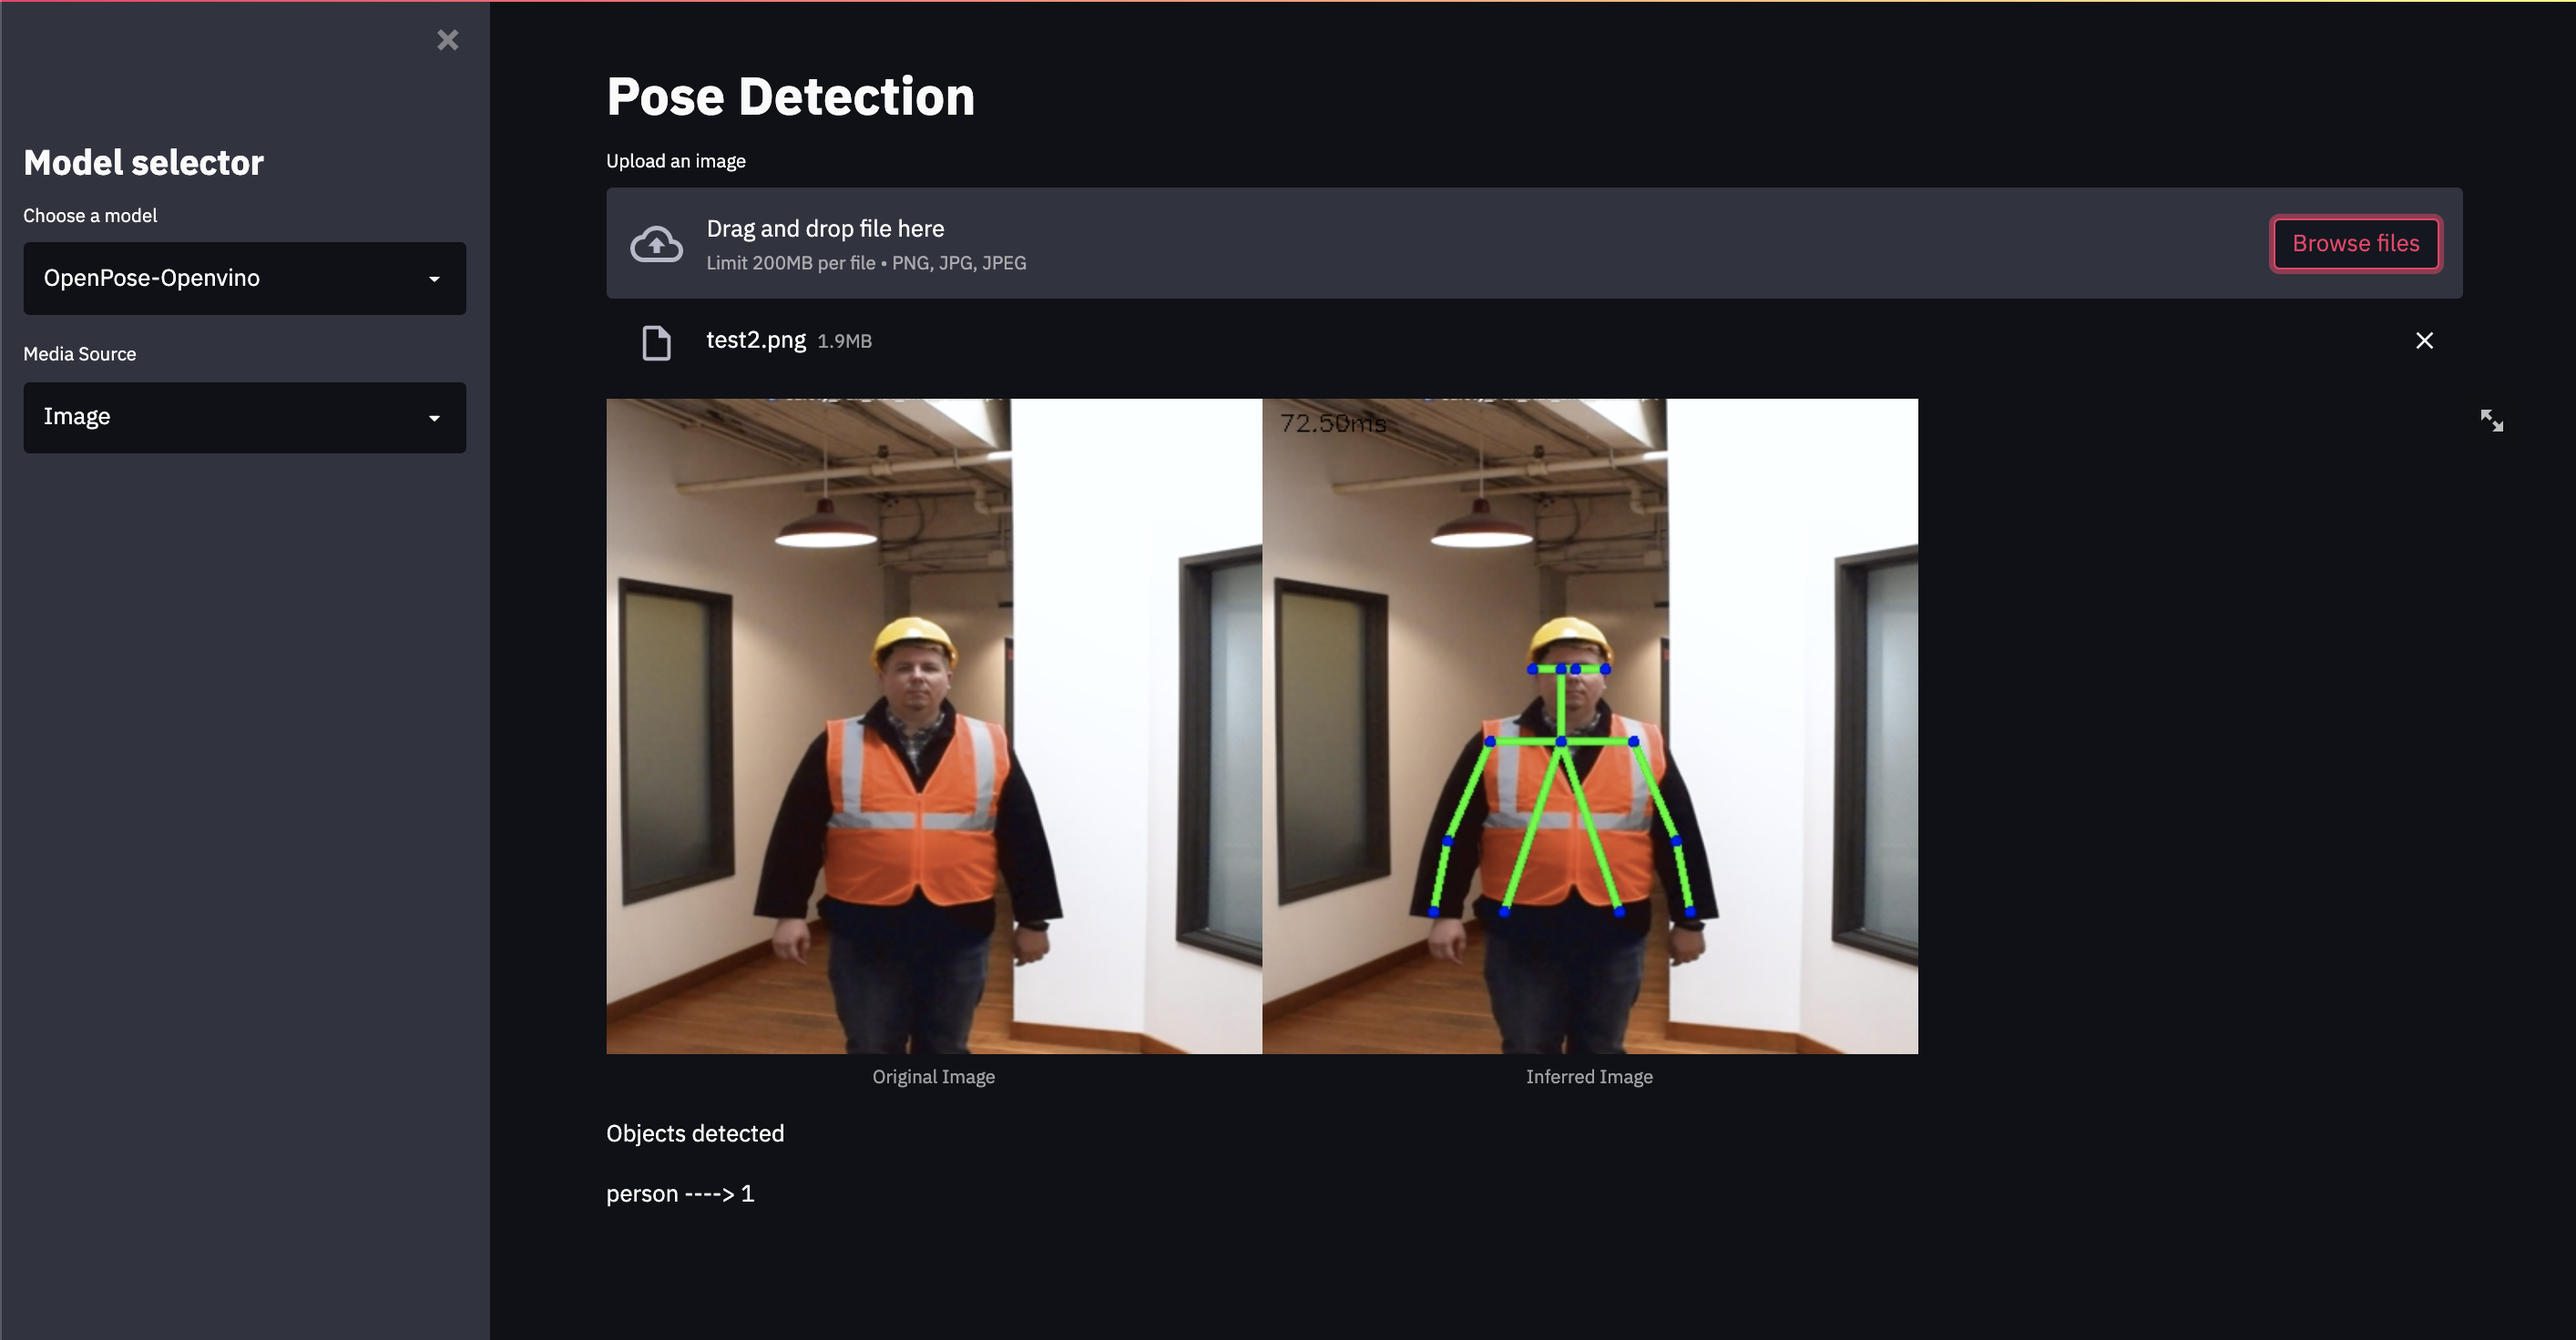
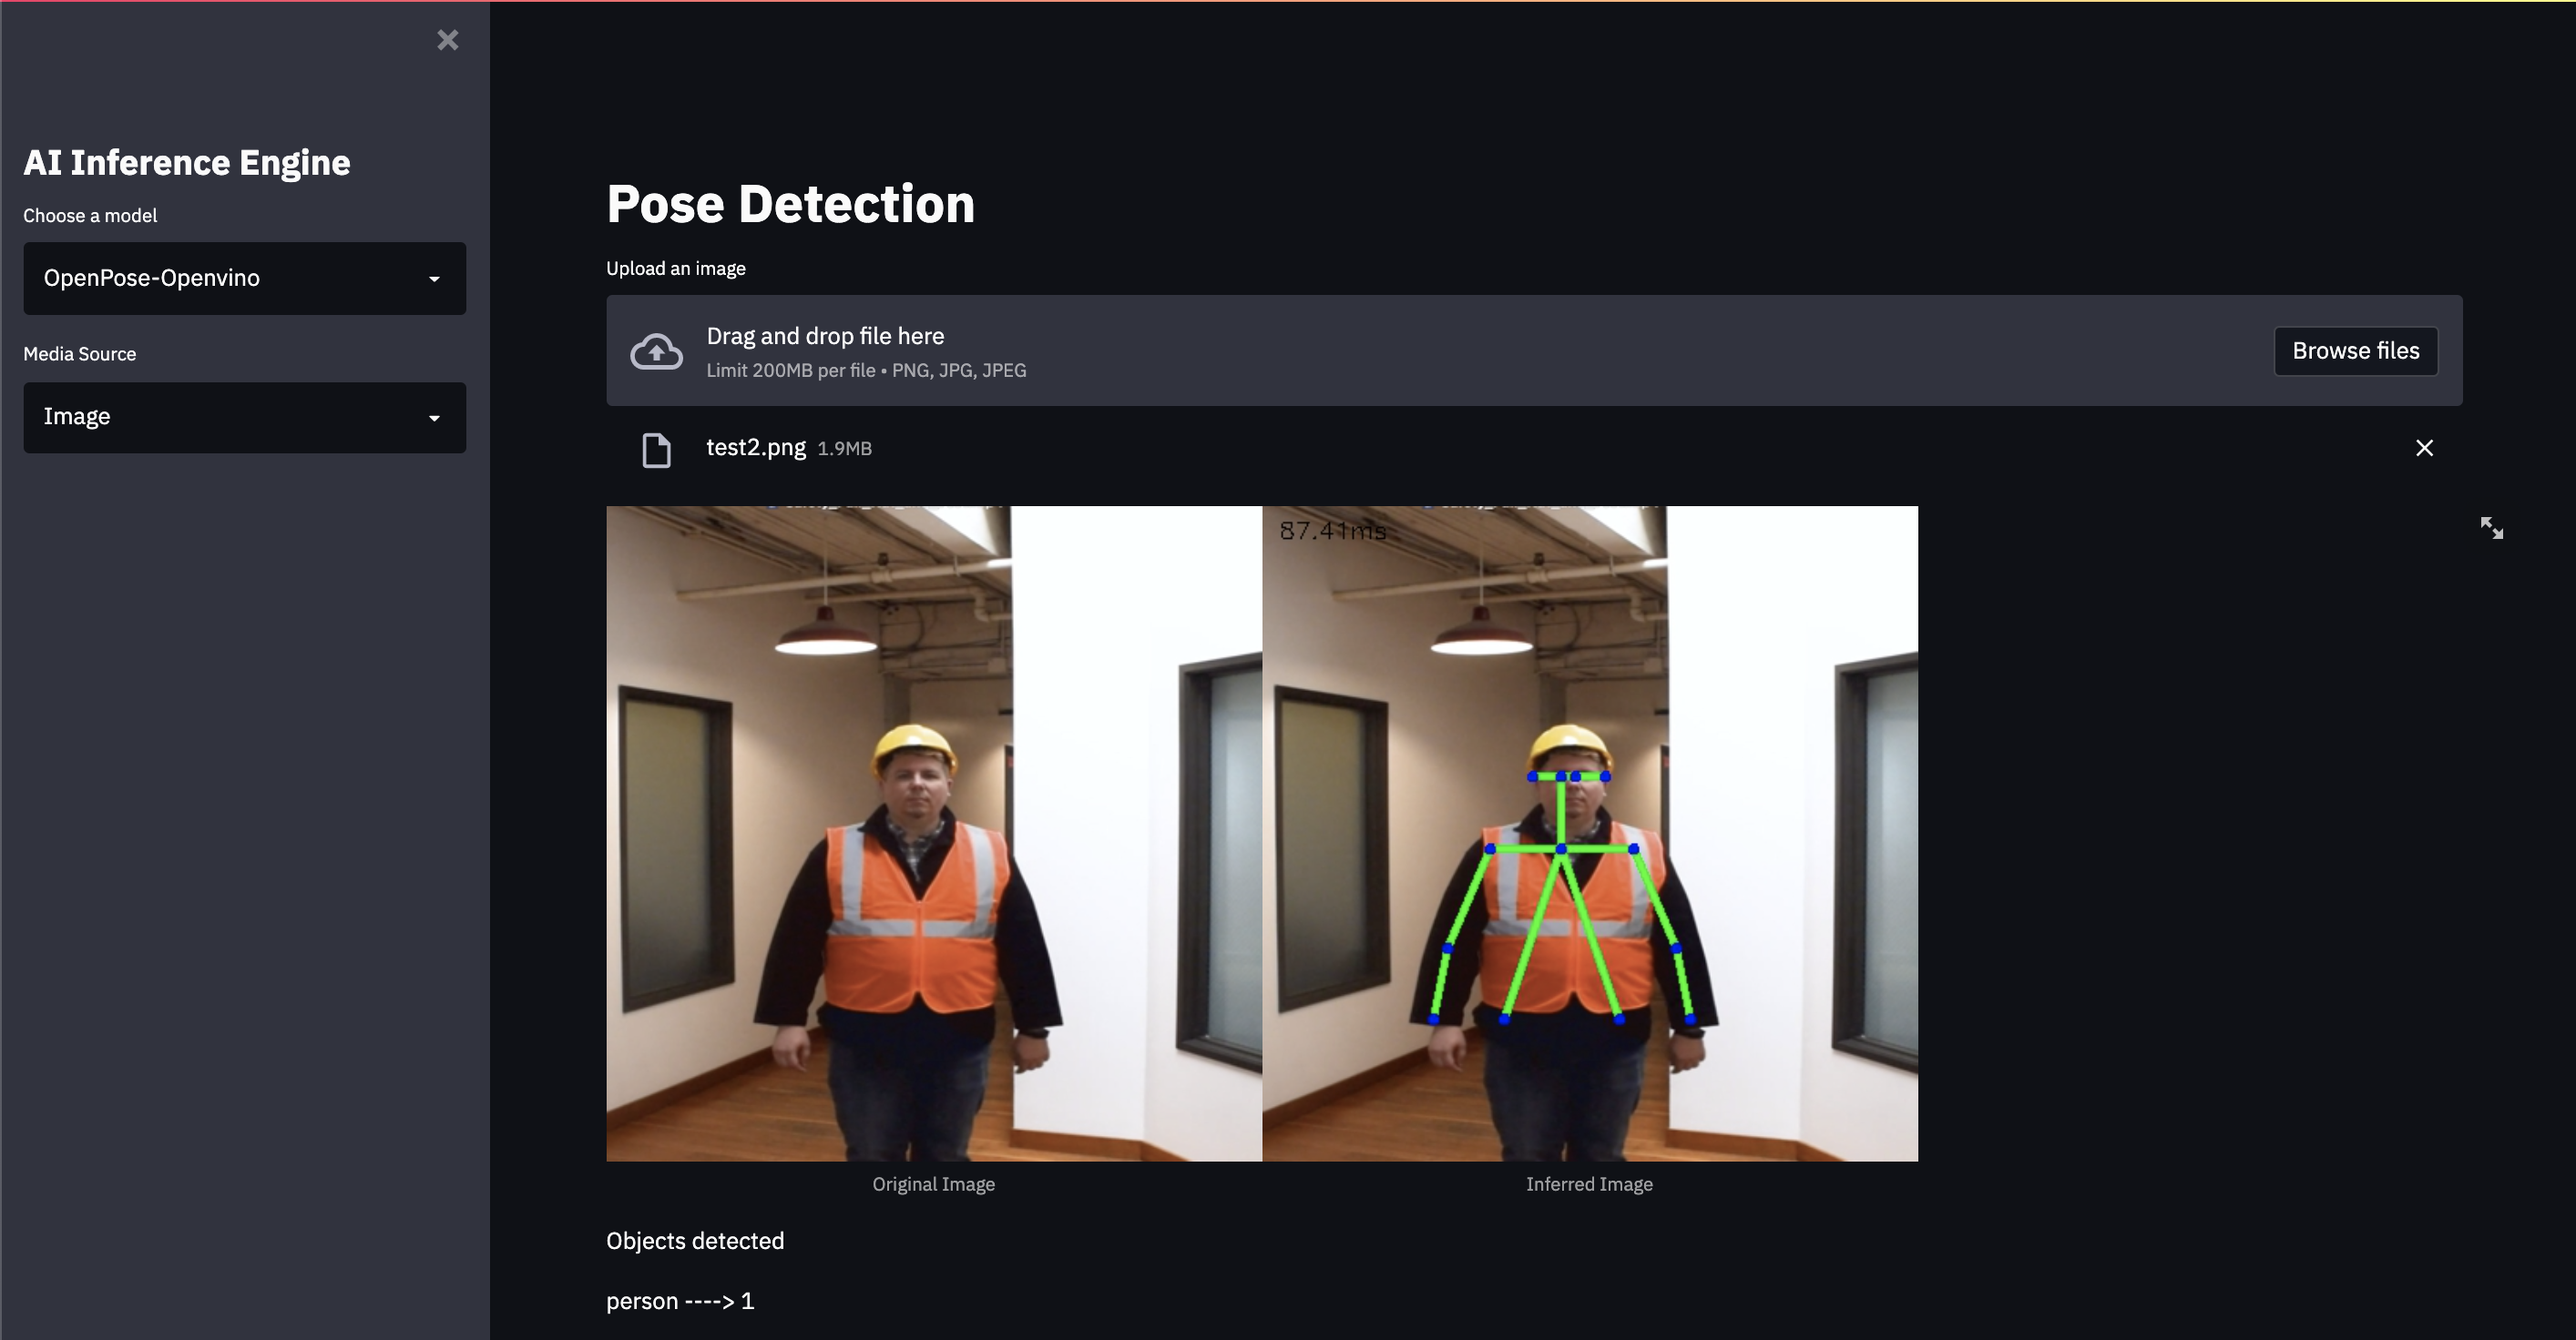
Update Title

diff --git a/main.py b/main.py
@@ -66,7 +66,7 @@ def load_poseestimation_model():
 
 def main():
     st.set_option('deprecation.showfileUploaderEncoding', False)
-    st.sidebar.title("Model selector")
+    st.sidebar.title("AI Inference Engine")
     app_mode = st.sidebar.selectbox(
         "Choose a model", ["None",
                            "OpenPose-Openvino"])
